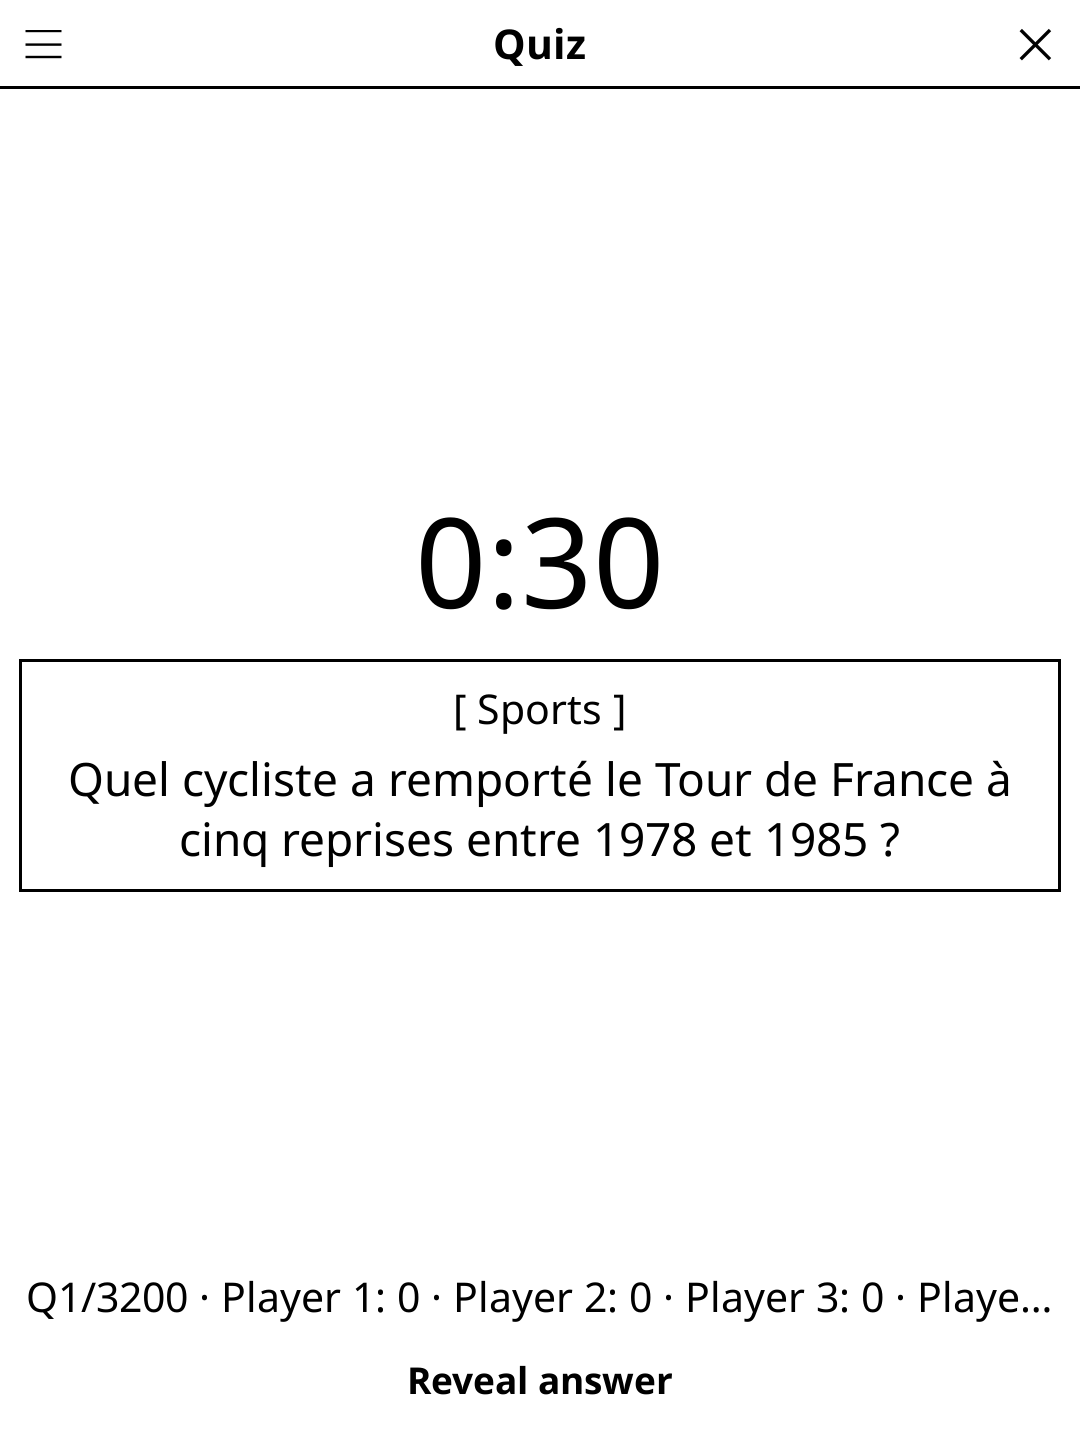
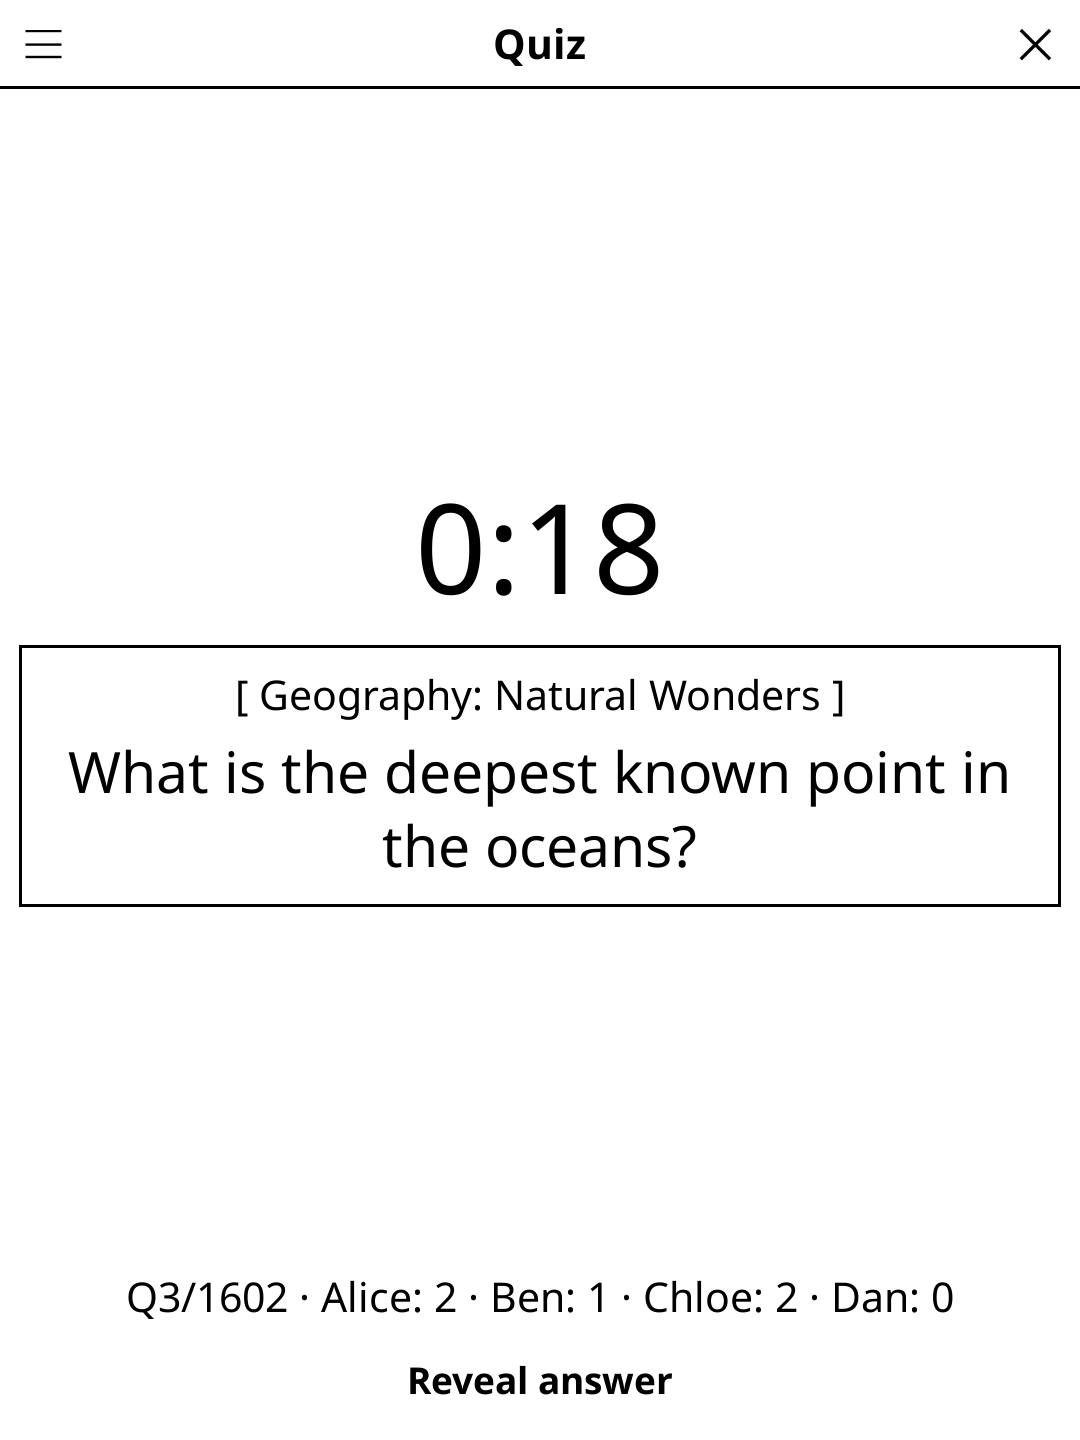
release: 1.6.7 -- Picks up game-common 1.20.0: a deferred action (timer tick, computer's
See CHANGELOG.md.

Changed region(s): [[0.0306, 0.3438, 0.9778, 0.625], [0.0306, 0.875, 0.5194, 0.9375], [0.55, 0.875, 0.9472, 0.9375]]

diff --git a/CHANGELOG.md b/CHANGELOG.md
@@ -6,6 +6,15 @@ Reconstructed from this repository's git history: each release lists the
 feature and fix commits it carried. Version bumps, screenshot additions
 and CI syncs are left out.
 
+## [1.6.7] - 2026-11-24
+
+### Changed
+- Picks up game-common 1.20.0: a deferred action (timer tick, computer's
+  move, card flip) no longer runs once the game is closed or a new game has
+  started, and the game is saved a few seconds after a move instead of after
+  every one, and at once on close, suspend or power-off.
+- The README screenshot shows the game in English.
+
 ## [1.6.6] - 2026-11-24
 
 ### Changed
